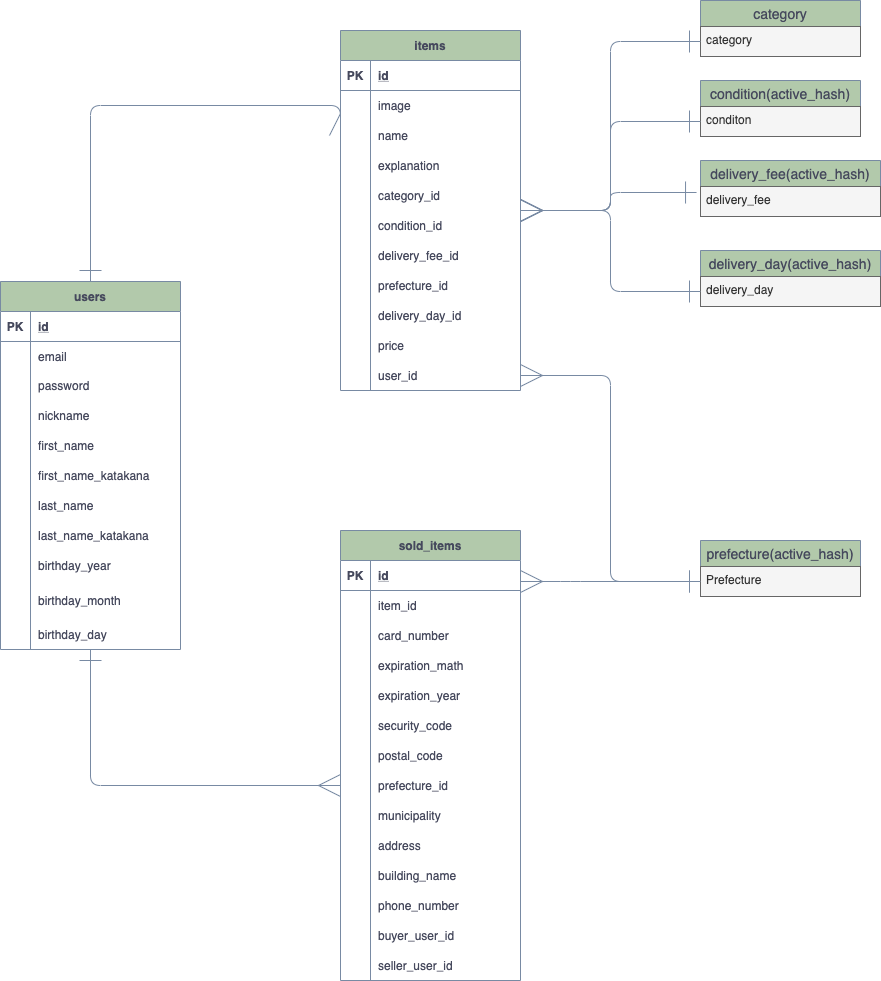
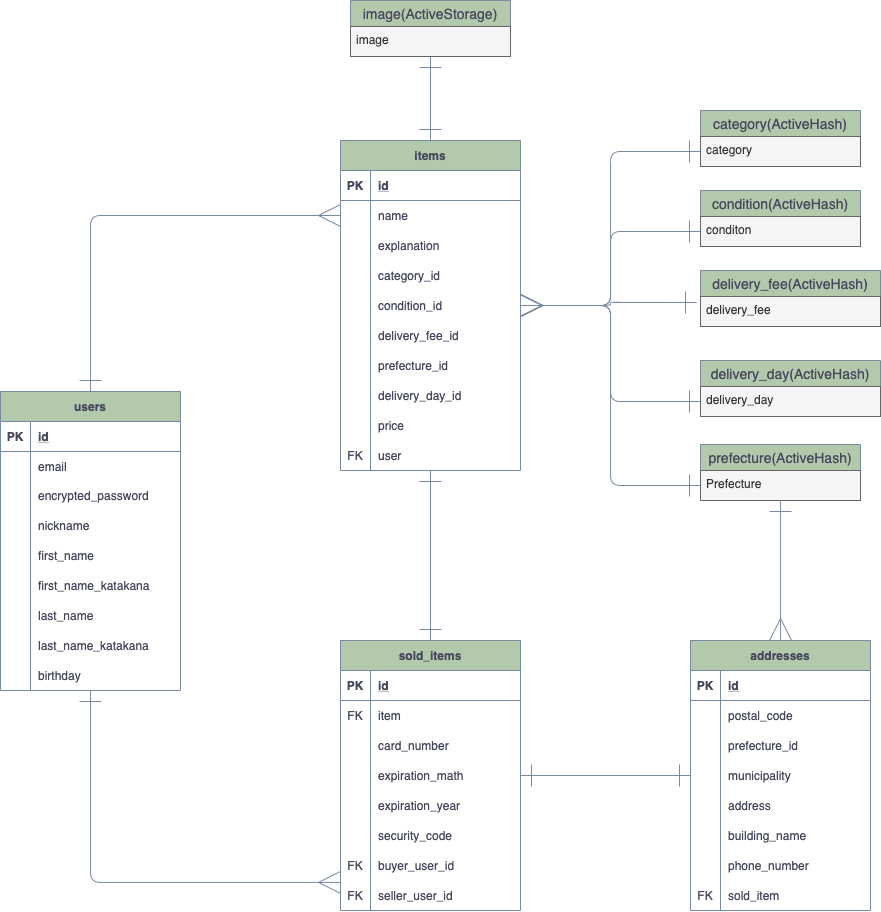
ER図/README修正

diff --git a/README.md b/README.md
@@ -7,15 +7,13 @@
 | Column              | Type    | Options     |
 | ------------------- | ------- | ----------- |
 | email               | string  | null: false |
-| password            | string  | null: false |
+| encrypted_password  | string  | null: false |
 | nickname            | string  | null: false |
 | first_name          | string  | null: false |
 | first_name_katakana | string  | null: false |
 | last_name           | string  | null: false |
 | last_name_katakana  | string  | null: false |
-| birthday_year       | integer | null: false |
-| birthday_month      | integer | null: false |
-| birthday_day        | integer | null: false |
+| birthday            | date    | null: false |
 
 ### Association
 
@@ -26,7 +24,6 @@
 
 | Column             | Type                | Options                         |
 | ------------------ | ------------------- | ------------------------------- |
-| image              | ActiveStorage       | null: false                     |
 | name               | string              | null: false                     |
 | explanation        | text                | null: false                     |
 | category_id        | ActiveHash, integer | null: false, numericality: true |
@@ -35,7 +32,7 @@
 | prefecture_id      | ActiveHash, integer | null: false, numericality: true |
 | delivery_day_id    | ActiveHash, integer | null: false, numericality: true |
 | price              | integer             | null: false                     |
-| user_id            | reference           | null: false, foreign_key: true  |
+| user               | references          | null: false, foreign_key: true  |
 
 ### Association
 - belongs_to       :user
@@ -43,59 +40,75 @@
 - has_one          :sold_item
 
 - extend ActiveHash::Associations::ActiveRecordExtentions
-- belongs_to :category
+  belongs_to :category
 - extend ActiveHash::Associations::ActiveRecordExtentions
-- belongs_to :condition 
+  belongs_to :condition 
 - extend ActiveHash::Associations::ActiveRecordExtentions
-- belongs_to :prefecture
+  belongs_to :prefecture
 - extend ActiveHash::Associations::ActiveRecordExtentions
-- belongs_to :delivery_fee 
+  belongs_to :delivery_fee 
 - extend ActiveHash::Associations::ActiveRecordExtentions
-- belongs_to :delivery_day
+  belongs_to :delivery_day
 ***
 ## sold_itemsテーブル
 
 | Column          | Type                | Options                         |
 | --------------- | ------------------- | ------------------------------- |
-| item_id         | reference           | null: false, foreign_key: true  |
+| item            | reference          | null: false, foreign_key: true  |
 | card_number     | integer             | null: false                     |
 | expiration_math | integer             | null: false                     |
 | expiration_year | integer             | null: false                     |
 | security_code   | integer             | null: false                     |
-| postal_code     | string              | null: false                     |
-| prefecture_id   | ActiveHash, integer | null: false, numericality: true |
-| municipality    | string              | null: false                     |
-| address         | text                | null: false                     |
-| building_name   | text                |                                 |
-| phone_number    | integer             | null: false                     |
-| buyer_user_id   | reference           | null: false, foreign_key: true  |
-| seller_user_id  | reference           | null: false, foreign_key: true  |
+| buyer_user_id   | references          | null: false, foreign_key: true  |
+| seller_user_id  | references          | null: false, foreign_key: true  |
 
 ### Association
 
+- has_one :address
 - belongs_to :user
 - belongs_to :item
+
+- add_foreign_key :sold_items, :users, column: :buyer_user_id
+- add_foreign_key :sold_items, :users, column: :seller_user_id
+***
+## addressesテーブル
+| Column        | Type                | Options                         |
+| ------------- | ------------------- | ------------------------------- |
+| postal_code   | string              | null: false                     |
+| prefecture_id | ActiveHash, integer | null: false, numericality: true |
+| municipality  | string              | null: false                     |
+| address       | text                | null: false                     |
+| building_name | text                |                                 |
+| phone_number  | integer             | null: false                     |
+| sold_item     | references          | null: false, foreign_key: true  |
+
+### Association
+
+- belongs_to :sold_item
 - extend ActiveHash::Associations::ActiveRecordExtentions
 - belongs_to :prefecture
-
 ***
 # ActiveHash
 
-## category(active_hash)
+## category(ActiveHash)
 - include ActiveHash::Associations
 - has_many :items
-## condition(active_hash)
+## condition(ActiveHash)
 - include ActiveHash::Associations
 - has_many :items
-## delivery_fee(active_hash)
+## delivery_fee(ActiveHash)
 - include ActiveHash::Associations
 - has_many :items
-## delivery_day(active_hash)
+## delivery_day(ActiveHash)
 - include ActiveHash::Associations
 - has_many :items
-## prefecture(active_hash)
+## prefecture(ActiveHash)
 - include ActiveHash::Associations
 - has_many :items
 - include ActiveHash::Associations
 - has_many :sold_items
+***
+# ActiveStorage
+
+## image(ActiveStorage)
 ***
